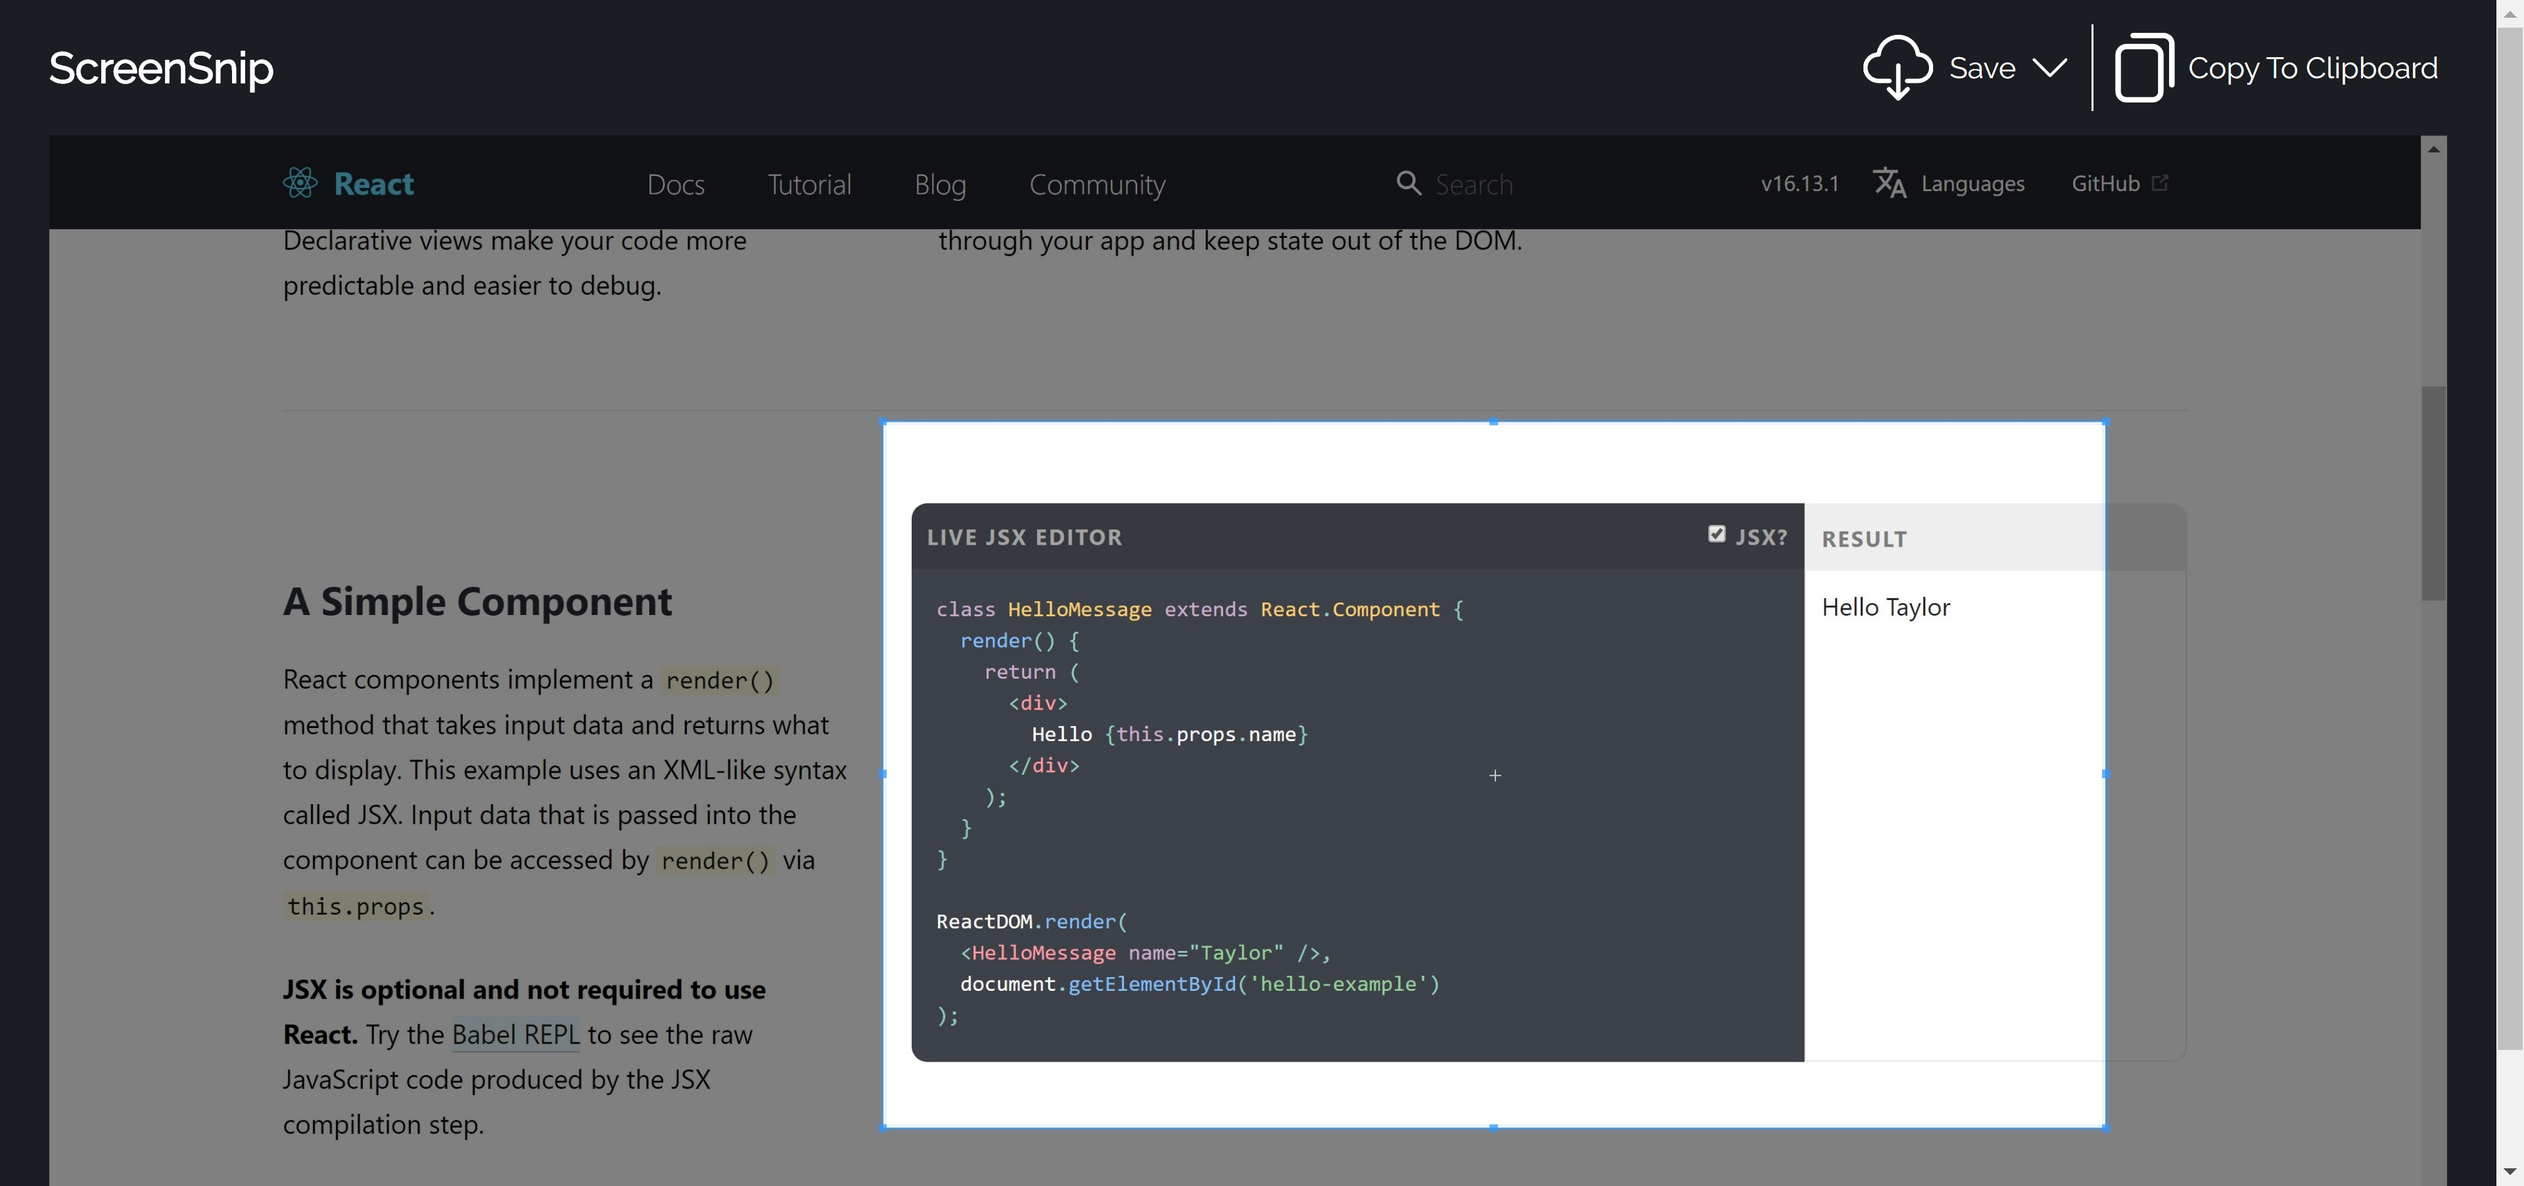
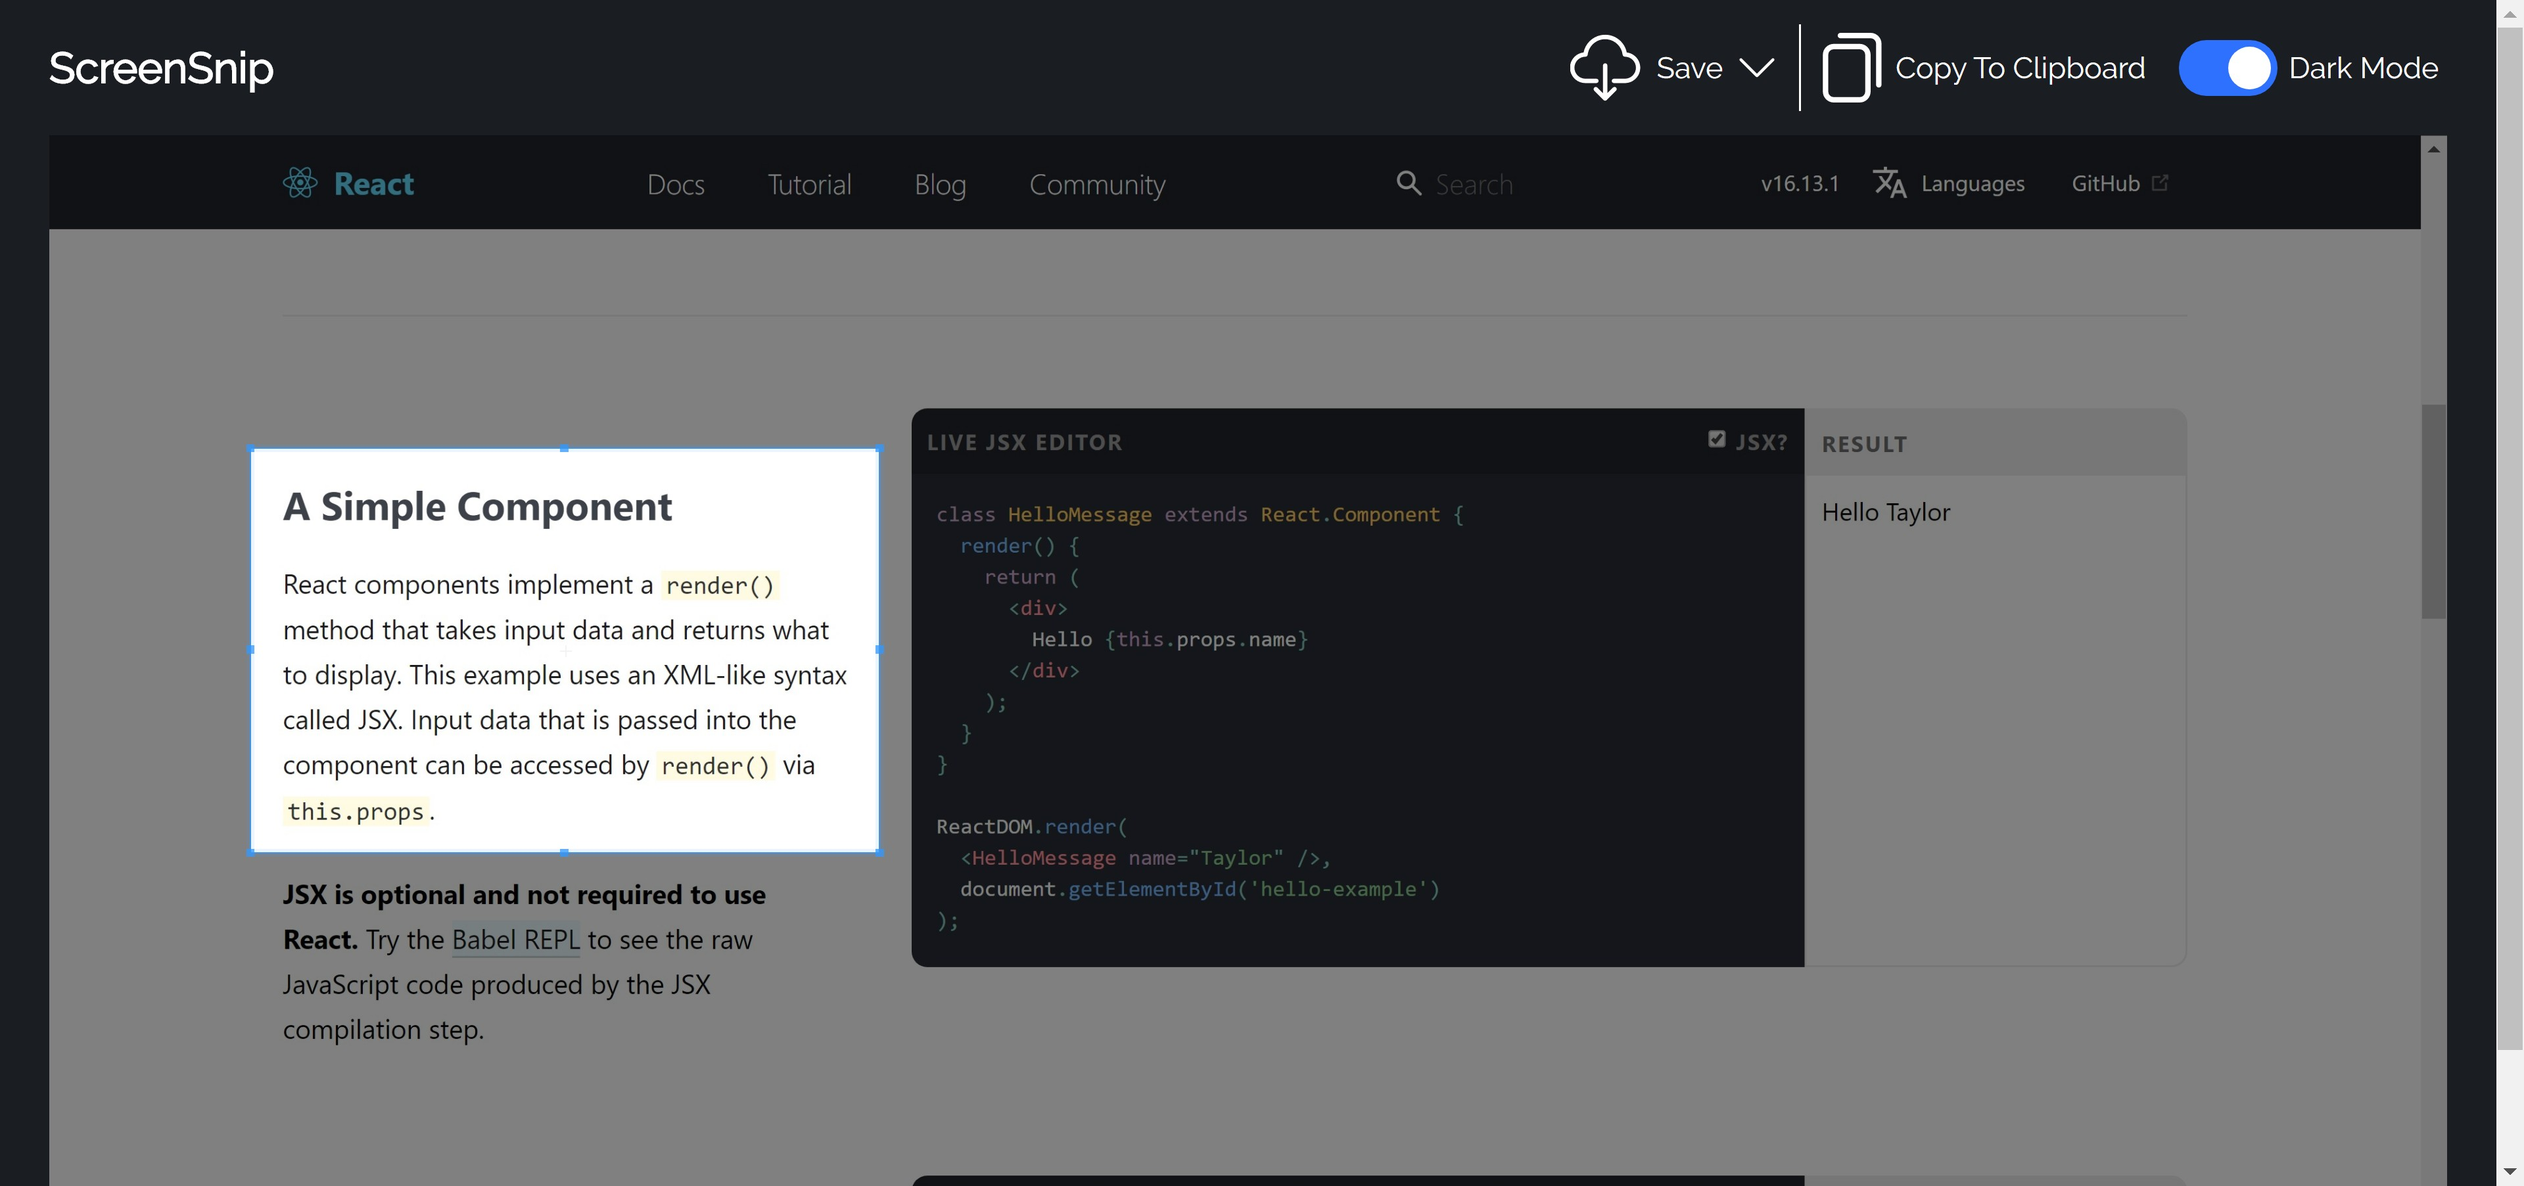
Added support for switching between light mode and dark mode, adjusted shadows for modal and snackbar popups, updated README.md with new preview images and a link to the Chrome Extension Store Page, and made other minor adjustments to improve the overall experience.

diff --git a/content/editor.html b/content/editor.html
@@ -2,7 +2,7 @@
   <head>
     <title>ScreenSnip - Editor</title>
     <link rel="stylesheet" href="https://fonts.googleapis.com/css?family=Raleway">
-    <link rel="stylesheet" href="https://fonts.googleapis.com/css?family=Roboto">
+    <link rel="stylesheet" href="https://fonts.googleapis.com/css?family=Montserrat">
     <link rel="stylesheet" href="/css/cropper.css">
     <link rel="stylesheet" type="text/css" href="/css/snackbar.css" />
     <link rel="stylesheet" type="text/css" href="/content/editor.css" />
@@ -19,11 +19,11 @@
         <div class="menu-buttons-container">
           <div class="menu-save-button-container">
             <div id="menu-save-button" class="menu-button">
-              <svg class="menu-save-icon" fill="#FFFFFF" width="32pt" height="32pt" viewBox="0 -16 512.00046 512" xmlns="http://www.w3.org/2000/svg"><path d="m413.492188 128.910156c-17.292969-86.765625-101.648438-143.082031-188.414063-125.789062-63.460937 12.648437-113.082031 62.238281-125.769531 125.691406-61.519532 7.089844-105.648438 62.707031-98.5625 124.230469 6.523437 56.621093 54.480468 99.339843 111.476562 99.300781h80.09375c8.847656 0 16.019532-7.171875 16.019532-16.019531 0-8.847657-7.171876-16.019531-16.019532-16.019531h-80.09375c-44.238281-.261719-79.882812-36.332032-79.625-80.566407.261719-44.238281 36.332032-79.886719 80.570313-79.625 8.164062 0 15.023437-6.140625 15.921875-14.257812 8.132812-70.304688 71.722656-120.707031 142.03125-112.574219 59.109375 6.835938 105.738281 53.464844 112.574218 112.574219 1.34375 8.261719 8.5 14.3125 16.867188 14.257812 44.238281 0 80.097656 35.859375 80.097656 80.097657 0 44.234374-35.859375 80.09375-80.097656 80.09375h-80.09375c-8.847656 0-16.019531 7.171874-16.019531 16.019531 0 8.847656 7.171875 16.019531 16.019531 16.019531h80.097656c61.925782-.386719 111.816406-50.902344 111.433594-112.828125-.351562-56.394531-42.53125-103.753906-98.507812-110.605469zm0 0"/><path d="m313.019531 385.183594-40.609375 40.621094v-201.613282c0-8.847656-7.171875-16.019531-16.015625-16.019531-8.847656 0-16.019531 7.171875-16.019531 16.019531v201.613282l-40.609375-40.621094c-6.144531-6.367188-16.289063-6.542969-22.652344-.394532-6.363281 6.144532-6.539062 16.285157-.394531 22.648438.132812.136719.261719.265625.394531.394531l67.9375 67.953125c1.484375 1.480469 3.242188 2.65625 5.175781 3.460938 3.941407 1.667968 8.390626 1.667968 12.335938 0 1.933594-.804688 3.691406-1.980469 5.171875-3.460938l67.9375-67.953125c6.363281-6.144531 6.539063-16.285156.394531-22.648437-6.148437-6.363282-16.289062-6.539063-22.652344-.394532-.132812.128907-.265624.257813-.394531.394532zm0 0"/></svg>
+              <svg class="menu-save-icon" width="32pt" height="32pt" viewBox="0 -16 512.00046 512" xmlns="http://www.w3.org/2000/svg"><path d="m413.492188 128.910156c-17.292969-86.765625-101.648438-143.082031-188.414063-125.789062-63.460937 12.648437-113.082031 62.238281-125.769531 125.691406-61.519532 7.089844-105.648438 62.707031-98.5625 124.230469 6.523437 56.621093 54.480468 99.339843 111.476562 99.300781h80.09375c8.847656 0 16.019532-7.171875 16.019532-16.019531 0-8.847657-7.171876-16.019531-16.019532-16.019531h-80.09375c-44.238281-.261719-79.882812-36.332032-79.625-80.566407.261719-44.238281 36.332032-79.886719 80.570313-79.625 8.164062 0 15.023437-6.140625 15.921875-14.257812 8.132812-70.304688 71.722656-120.707031 142.03125-112.574219 59.109375 6.835938 105.738281 53.464844 112.574218 112.574219 1.34375 8.261719 8.5 14.3125 16.867188 14.257812 44.238281 0 80.097656 35.859375 80.097656 80.097657 0 44.234374-35.859375 80.09375-80.097656 80.09375h-80.09375c-8.847656 0-16.019531 7.171874-16.019531 16.019531 0 8.847656 7.171875 16.019531 16.019531 16.019531h80.097656c61.925782-.386719 111.816406-50.902344 111.433594-112.828125-.351562-56.394531-42.53125-103.753906-98.507812-110.605469zm0 0"/><path d="m313.019531 385.183594-40.609375 40.621094v-201.613282c0-8.847656-7.171875-16.019531-16.015625-16.019531-8.847656 0-16.019531 7.171875-16.019531 16.019531v201.613282l-40.609375-40.621094c-6.144531-6.367188-16.289063-6.542969-22.652344-.394532-6.363281 6.144532-6.539062 16.285157-.394531 22.648438.132812.136719.261719.265625.394531.394531l67.9375 67.953125c1.484375 1.480469 3.242188 2.65625 5.175781 3.460938 3.941407 1.667968 8.390626 1.667968 12.335938 0 1.933594-.804688 3.691406-1.980469 5.171875-3.460938l67.9375-67.953125c6.363281-6.144531 6.539063-16.285156.394531-22.648437-6.148437-6.363282-16.289062-6.539063-22.652344-.394532-.132812.128907-.265624.257813-.394531.394532zm0 0"/></svg>
               <span class="menu-text">Save</span>
             </div>
             <div class="menu-dropdown-button menu-button">
-              <svg class="menu-dropdown-icon" fill="#FFFFFF" width="16pt" height="16pt" version="1.1" xmlns="http://www.w3.org/2000/svg" xmlns:xlink="http://www.w3.org/1999/xlink" x="0px" y="0px" viewBox="0 0 512.011 512.011" style="enable-background:new 0 0 512.011 512.011;" xml:space="preserve"> <g> <g> <path d="M505.755,123.592c-8.341-8.341-21.824-8.341-30.165,0L256.005,343.176L36.421,123.592c-8.341-8.341-21.824-8.341-30.165,0 s-8.341,21.824,0,30.165l234.667,234.667c4.16,4.16,9.621,6.251,15.083,6.251c5.462,0,10.923-2.091,15.083-6.251l234.667-234.667 C514.096,145.416,514.096,131.933,505.755,123.592z"/></g></g><g></g><g></g><g></g><g></g><g></g><g></g><g></g><g></g><g></g><g></g><g></g><g></g><g></g><g></g><g></g></svg>
+              <svg class="menu-dropdown-icon" width="16pt" height="16pt" version="1.1" xmlns="http://www.w3.org/2000/svg" xmlns:xlink="http://www.w3.org/1999/xlink" x="0px" y="0px" viewBox="0 0 512.011 512.011" style="enable-background:new 0 0 512.011 512.011;" xml:space="preserve"> <g> <g> <path d="M505.755,123.592c-8.341-8.341-21.824-8.341-30.165,0L256.005,343.176L36.421,123.592c-8.341-8.341-21.824-8.341-30.165,0 s-8.341,21.824,0,30.165l234.667,234.667c4.16,4.16,9.621,6.251,15.083,6.251c5.462,0,10.923-2.091,15.083-6.251l234.667-234.667 C514.096,145.416,514.096,131.933,505.755,123.592z"/></g></g><g></g><g></g><g></g><g></g><g></g><g></g><g></g><g></g><g></g><g></g><g></g><g></g><g></g><g></g><g></g></svg>
               <div class="menu-dropdown-content">
                 <span id="menu-dropdown-item-png" class="menu-dropdown-item menu-dropdown-item-top">.png</span>
                 <span id="menu-dropdown-item-jpeg" class="menu-dropdown-item menu-dropdown-item-middle">.jpeg</span>
@@ -32,8 +32,15 @@
             </div>
           </div>
           <div id="menu-copy-button" class="menu-button">
-            <svg class="menu-copy-icon" fill="#FFFFFF" width="32pt" height="32pt" viewBox="-40 0 512 512" xmlns="http://www.w3.org/2000/svg"><path d="m271 512h-191c-44.113281 0-80-35.886719-80-80v-271c0-44.113281 35.886719-80 80-80h191c44.113281 0 80 35.886719 80 80v271c0 44.113281-35.886719 80-80 80zm-191-391c-22.054688 0-40 17.945312-40 40v271c0 22.054688 17.945312 40 40 40h191c22.054688 0 40-17.945312 40-40v-271c0-22.054688-17.945312-40-40-40zm351 261v-302c0-44.113281-35.886719-80-80-80h-222c-11.046875 0-20 8.953125-20 20s8.953125 20 20 20h222c22.054688 0 40 17.945312 40 40v302c0 11.046875 8.953125 20 20 20s20-8.953125 20-20zm0 0"/></svg>
+            <svg class="menu-copy-icon" width="32pt" height="32pt" viewBox="-40 0 512 512" xmlns="http://www.w3.org/2000/svg"><path d="m271 512h-191c-44.113281 0-80-35.886719-80-80v-271c0-44.113281 35.886719-80 80-80h191c44.113281 0 80 35.886719 80 80v271c0 44.113281-35.886719 80-80 80zm-191-391c-22.054688 0-40 17.945312-40 40v271c0 22.054688 17.945312 40 40 40h191c22.054688 0 40-17.945312 40-40v-271c0-22.054688-17.945312-40-40-40zm351 261v-302c0-44.113281-35.886719-80-80-80h-222c-11.046875 0-20 8.953125-20 20s8.953125 20 20 20h222c22.054688 0 40 17.945312 40 40v302c0 11.046875 8.953125 20 20 20s20-8.953125 20-20zm0 0"/></svg>
             <span class="menu-text">Copy To Clipboard</span>
+          </div>
+          <div class="menu-dark-theme-container">
+            <label class="menu-dark-theme-switch" for="menu-dark-theme-toggle">
+              <input type="checkbox" id="menu-dark-theme-toggle" checked/>
+              <div class="slider round"></div>
+            </label>
+            <span class="menu-text">Dark Mode</span>
           </div>
         </div>
       </div>
@@ -46,10 +53,10 @@
         <span id="modal-filename-input-error">Filename required</span>
         <div class="modal-buttons-container">
           <div id="modal-save-button" class="modal-button" disabled>
-            <span class="menu-text">Save</span>
+            <span class="modal-button-text">Save</span>
           </div>
           <div id="modal-cancel-button" class="modal-button">
-            <span class="menu-text">Cancel</span>
+            <span class="modal-button-text">Cancel</span>
           </div>
         </div>
       </div>

diff --git a/content/editor.css b/content/editor.css
@@ -1,6 +1,25 @@
+:root {
+  --background-color: #1A1D21;
+  --modal-background-color: #1F2227;
+  --text-color: #FFFFFF;
+  --icon-color: #FFFFFF;
+  --menu-button-hover-color: #343535;
+  --menu-dropdown-item-color: #343535;
+  --modal-button-text-color: #FFFFFF;
+}
+
+[data-theme="light"] {
+  --background-color: #FFFFFF;
+  --modal-background-color: #FFFFFF;
+  --text-color: #1A1D21;
+  --icon-color: #1A1D21;
+  --menu-button-hover-color: #E9E9E9;
+  --menu-dropdown-item-color: #E9E9E9;
+}
+
 html, body {
   margin: 0 15 15 15;
-  background-color: #1A1D21;
+  background-color: var(--background-color);
 }
 
 #loading {
@@ -9,7 +28,7 @@ html, body {
   left: 0;
   width: 100%;
   height: 100%;
-  background-color: black;
+  background-color: #000000;
 }
 
 #overlay {
@@ -32,7 +51,7 @@ html, body {
 }
 
 .menu-bar {
-  background-color: #1A1D21;
+  background-color: var(--background-color);
   display: flex;
   flex-grow: 1;
   flex-direction: row;
@@ -41,7 +60,7 @@ html, body {
 }
 
 .menu-title {
-  color: white;
+  color: var(--text-color);
   font-family: Raleway;
   font-size: 26px;
   font-weight: bold;
@@ -54,7 +73,7 @@ html, body {
 }
 
 .menu-text {
-  color: white;
+  color: var(--text-color);
   font-family: Raleway;
   font-size: 18px;
   padding: 0px 5px 0px 5px;
@@ -64,7 +83,7 @@ html, body {
 .menu-save-button-container {
   display: flex;
   align-items: center;
-  border-right: 1px solid white;
+  border-right: 1px solid var(--text-color);
   padding-right: 10px;
 }
 
@@ -76,14 +95,17 @@ html, body {
 }
 
 .menu-button:hover {
-  background-color: #343535;
+  background-color: var(--menu-button-hover-color);
+  cursor: pointer;
 }
 
 .menu-save-icon {
+  fill: var(--icon-color);
   padding: 5px 5px 5px 5px;
 }
 
 .menu-dropdown-icon {
+  fill: var(--icon-color);
   padding: 5px 5px 5px 5px;
 }
 
@@ -98,7 +120,7 @@ html, body {
   border-radius: 10px;
   position: absolute;
   top: 100%;
-  border: 1px solid #343535;
+  border: 1px solid var(--menu-dropdown-item-color);
 }
 
 .menu-dropdown-button:hover .menu-dropdown-content {
@@ -107,18 +129,18 @@ html, body {
 }
 
 .menu-dropdown-item {
-  color: white;
+  color: var(--text-color);
   font-family: Raleway;
   font-size: 20px;
   display: block;
-  background-color: #343535;
+  background-color: var(--menu-dropdown-item-color);
   padding: 10px;
   user-select: none;
 }
 
 .menu-dropdown-item:hover {
-  background-color: white;
-  color: #343535;
+  background-color: var(--text-color);
+  color: var(--background-color);
 }
 
 .menu-dropdown-item-top {
@@ -134,7 +156,68 @@ html, body {
 }
 
 #menu-copy-button {
-  margin-left: 10px;
+  margin: 0px 10px 0px 10px;
+}
+
+.menu-copy-icon {
+  fill: var(--icon-color);
+}
+
+.menu-dark-theme-container {
+  display: flex;
+  flex-direction: row;
+  align-items: center;
+  margin-left: 5px;
+}
+
+.menu-dark-theme-switch {
+  display: inline-block;
+  position: relative;
+  width: 60px;
+  height: 34px;
+  margin-right: 2px;
+}
+
+.menu-dark-theme-switch input {
+  display: none;
+}
+
+.slider {
+  bottom: 0;
+  left: 0;
+  right: 0;
+  top: 0;
+  cursor: pointer;
+  position: absolute;
+  transition: .4s;
+  background-color: #E9E9E9;
+}
+
+.slider:before {
+  content: "";
+  bottom: 4px;
+  left: 4px;
+  width: 26px;
+  height: 26px;
+  position: absolute;
+  transition: .4s;
+  background-color: #FFFFFF;
+}
+
+input:checked + .slider {
+  background-color: #2E71FF;
+}
+
+input:checked + .slider:before {
+  transform: translateX(26px);
+}
+
+.slider.round {
+  border-radius: 34px;
+}
+
+.slider.round:before {
+  border-radius: 50%;
 }
 
 #modal {
@@ -149,14 +232,13 @@ html, body {
   transform: translate(-50%, -50%);
   z-index: 4;
   border-radius: 10px;
-  background-color: #1F2227;
-  box-shadow: 10px 10px 15px 0px rgba(0,0,0,0.75);
-}
+  background-color: var(--modal-background-color);
+  box-shadow: 0 10px 20px rgba(0,0,0,0.19), 0 6px 6px rgba(0,0,0,0.23);}
 
 .modal-title {
   font-family: Raleway;
   font-size: 24px;
-  color: white;
+  color: var(--text-color);
   padding: 40px 70px 0px 70px;
   user-select: none;
 }
@@ -170,22 +252,22 @@ html, body {
 }
 
 #modal-filename-filetype {
-  font-family: Roboto;
+  font-family: Montserrat;
   font-size: 18px;
-  color: white;
+  color: var(--text-color);
   padding: 7px 7px 7px 5px;
   user-select: none;
 }
 
 #modal-filename-input {
   width: 70%;
-  background-color: #1A1D21;
-  color: white;
-  border: 1px solid white;
+  background-color: var(--background-color);
+  color: var(--text-color);
+  border: 1px solid var(--text-color);
   border-radius: 5px;
   outline: none;
   padding: 7px;
-  font-family: Roboto;
+  font-family: Montserrat;
   font-size: 18px;
   text-align: end;
 }
@@ -199,7 +281,7 @@ html, body {
   top: 100%;
   left: 0%;
   padding: 10px 10px 0px 10px;
-  font-family: Roboto;
+  font-family: Montserrat;
   font-size: 16px;
   color: red;
   user-select: none;
@@ -218,8 +300,17 @@ html, body {
   margin: 0px 10px 0px 10px;
 }
 
+.modal-button-text {
+  color: var(--modal-button-text-color);
+  font-family: Raleway;
+  font-size: 18px;
+  padding: 0px 5px 0px 5px;
+  user-select: none;
+}
+
 .modal-button:hover {
   background-color: #0050FA;
+  cursor: pointer;
 }
 
 #screenshot {
@@ -229,4 +320,8 @@ html, body {
 
 .cropper-crop {
   cursor: default;
+}
+
+.snackbar-container {
+  box-shadow: 0 10px 20px rgba(0,0,0,0.19), 0 6px 6px rgba(0,0,0,0.23);
 }

diff --git a/content/editor.js b/content/editor.js
@@ -33,6 +33,14 @@ function createEventListeners() {
     openModal("image/webp");
   });
 
+  // Dark theme toggle is clicked.
+  document.getElementById("menu-dark-theme-toggle").addEventListener("change", function() {
+    // Set either light or dark theme.
+    toggle = document.getElementById("menu-dark-theme-toggle");
+    theme = (toggle.checked ? "dark" : "light");
+    document.documentElement.setAttribute("data-theme", theme);
+  });
+
   // Filename input field is typed in.
   document.getElementById("modal-filename-input").addEventListener("input", function() {
     input = document.getElementById("modal-filename-input");
@@ -126,7 +134,8 @@ function copyImageToClipboard(dataURI) {
     text: "Successfully copied to clipboard!",
     pos: "bottom-center",
     showAction: false,
-    backgroundColor: "#1F2227",
+    textColor: getComputedStyle(document.documentElement).getPropertyValue("--text-color"),
+    backgroundColor: getComputedStyle(document.documentElement).getPropertyValue("--modal-background-color"),
     duration: 2000
   });
 }

diff --git a/README.md b/README.md
@@ -4,11 +4,19 @@
 A Chrome Extension that allows you to take screenshot of the current tab and crop any region, before saving or copying to the clipboard. Currently supports saving cropped screenshot as a .png, .jpeg, or .webp.
 
 ## Installation
+
+### 1. Via Chrome Extension Store
+Download can be found [here](https://chrome.google.com/webstore/detail/screensnip/okodoejppedehahibmdngneledbkliap).
+
+### 2. Via ZIP
 - Download this repository as a ZIP, and unzip.
 - Go to **chrome://extensions/** in Chrome.
 - Enable **Developer Mode**.
 - Click on **Load unpacked**.
 - Navigate to the unzipped folder and select it to finish installation.
 
+---
 
 ![Alt text](/images/preview.png?raw=true)
+
+![Alt text](/images/preview_2.png?raw=true)
